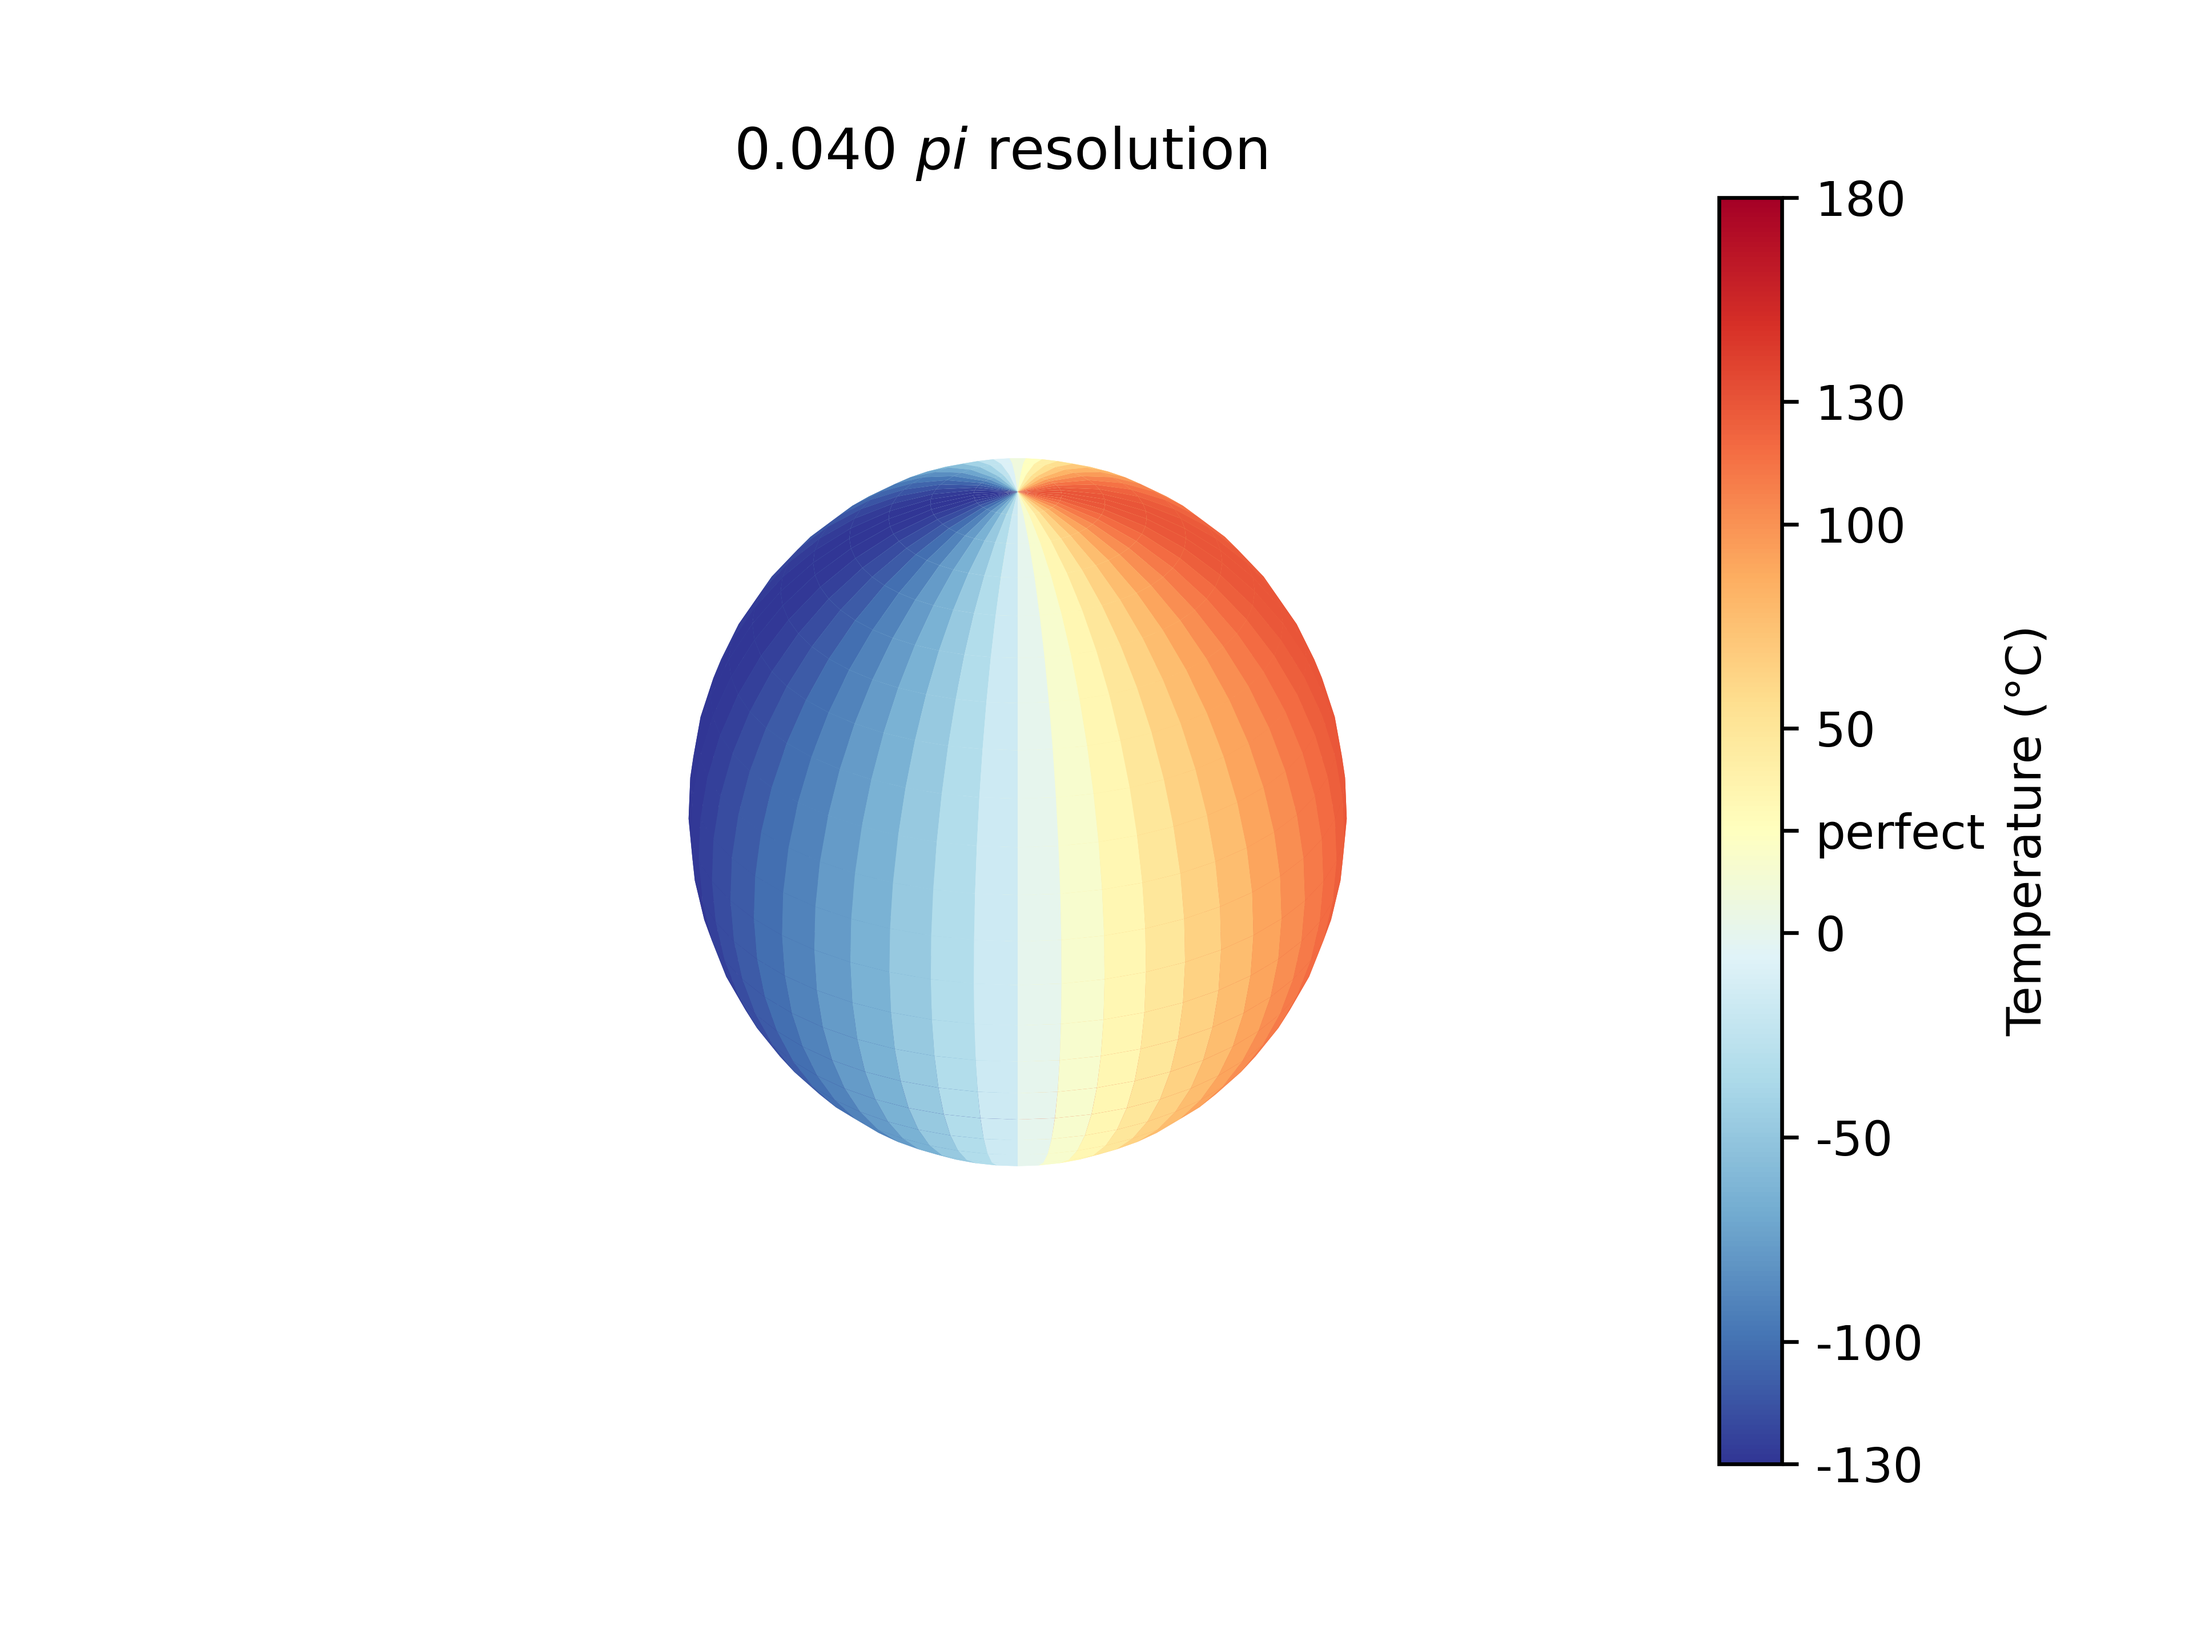
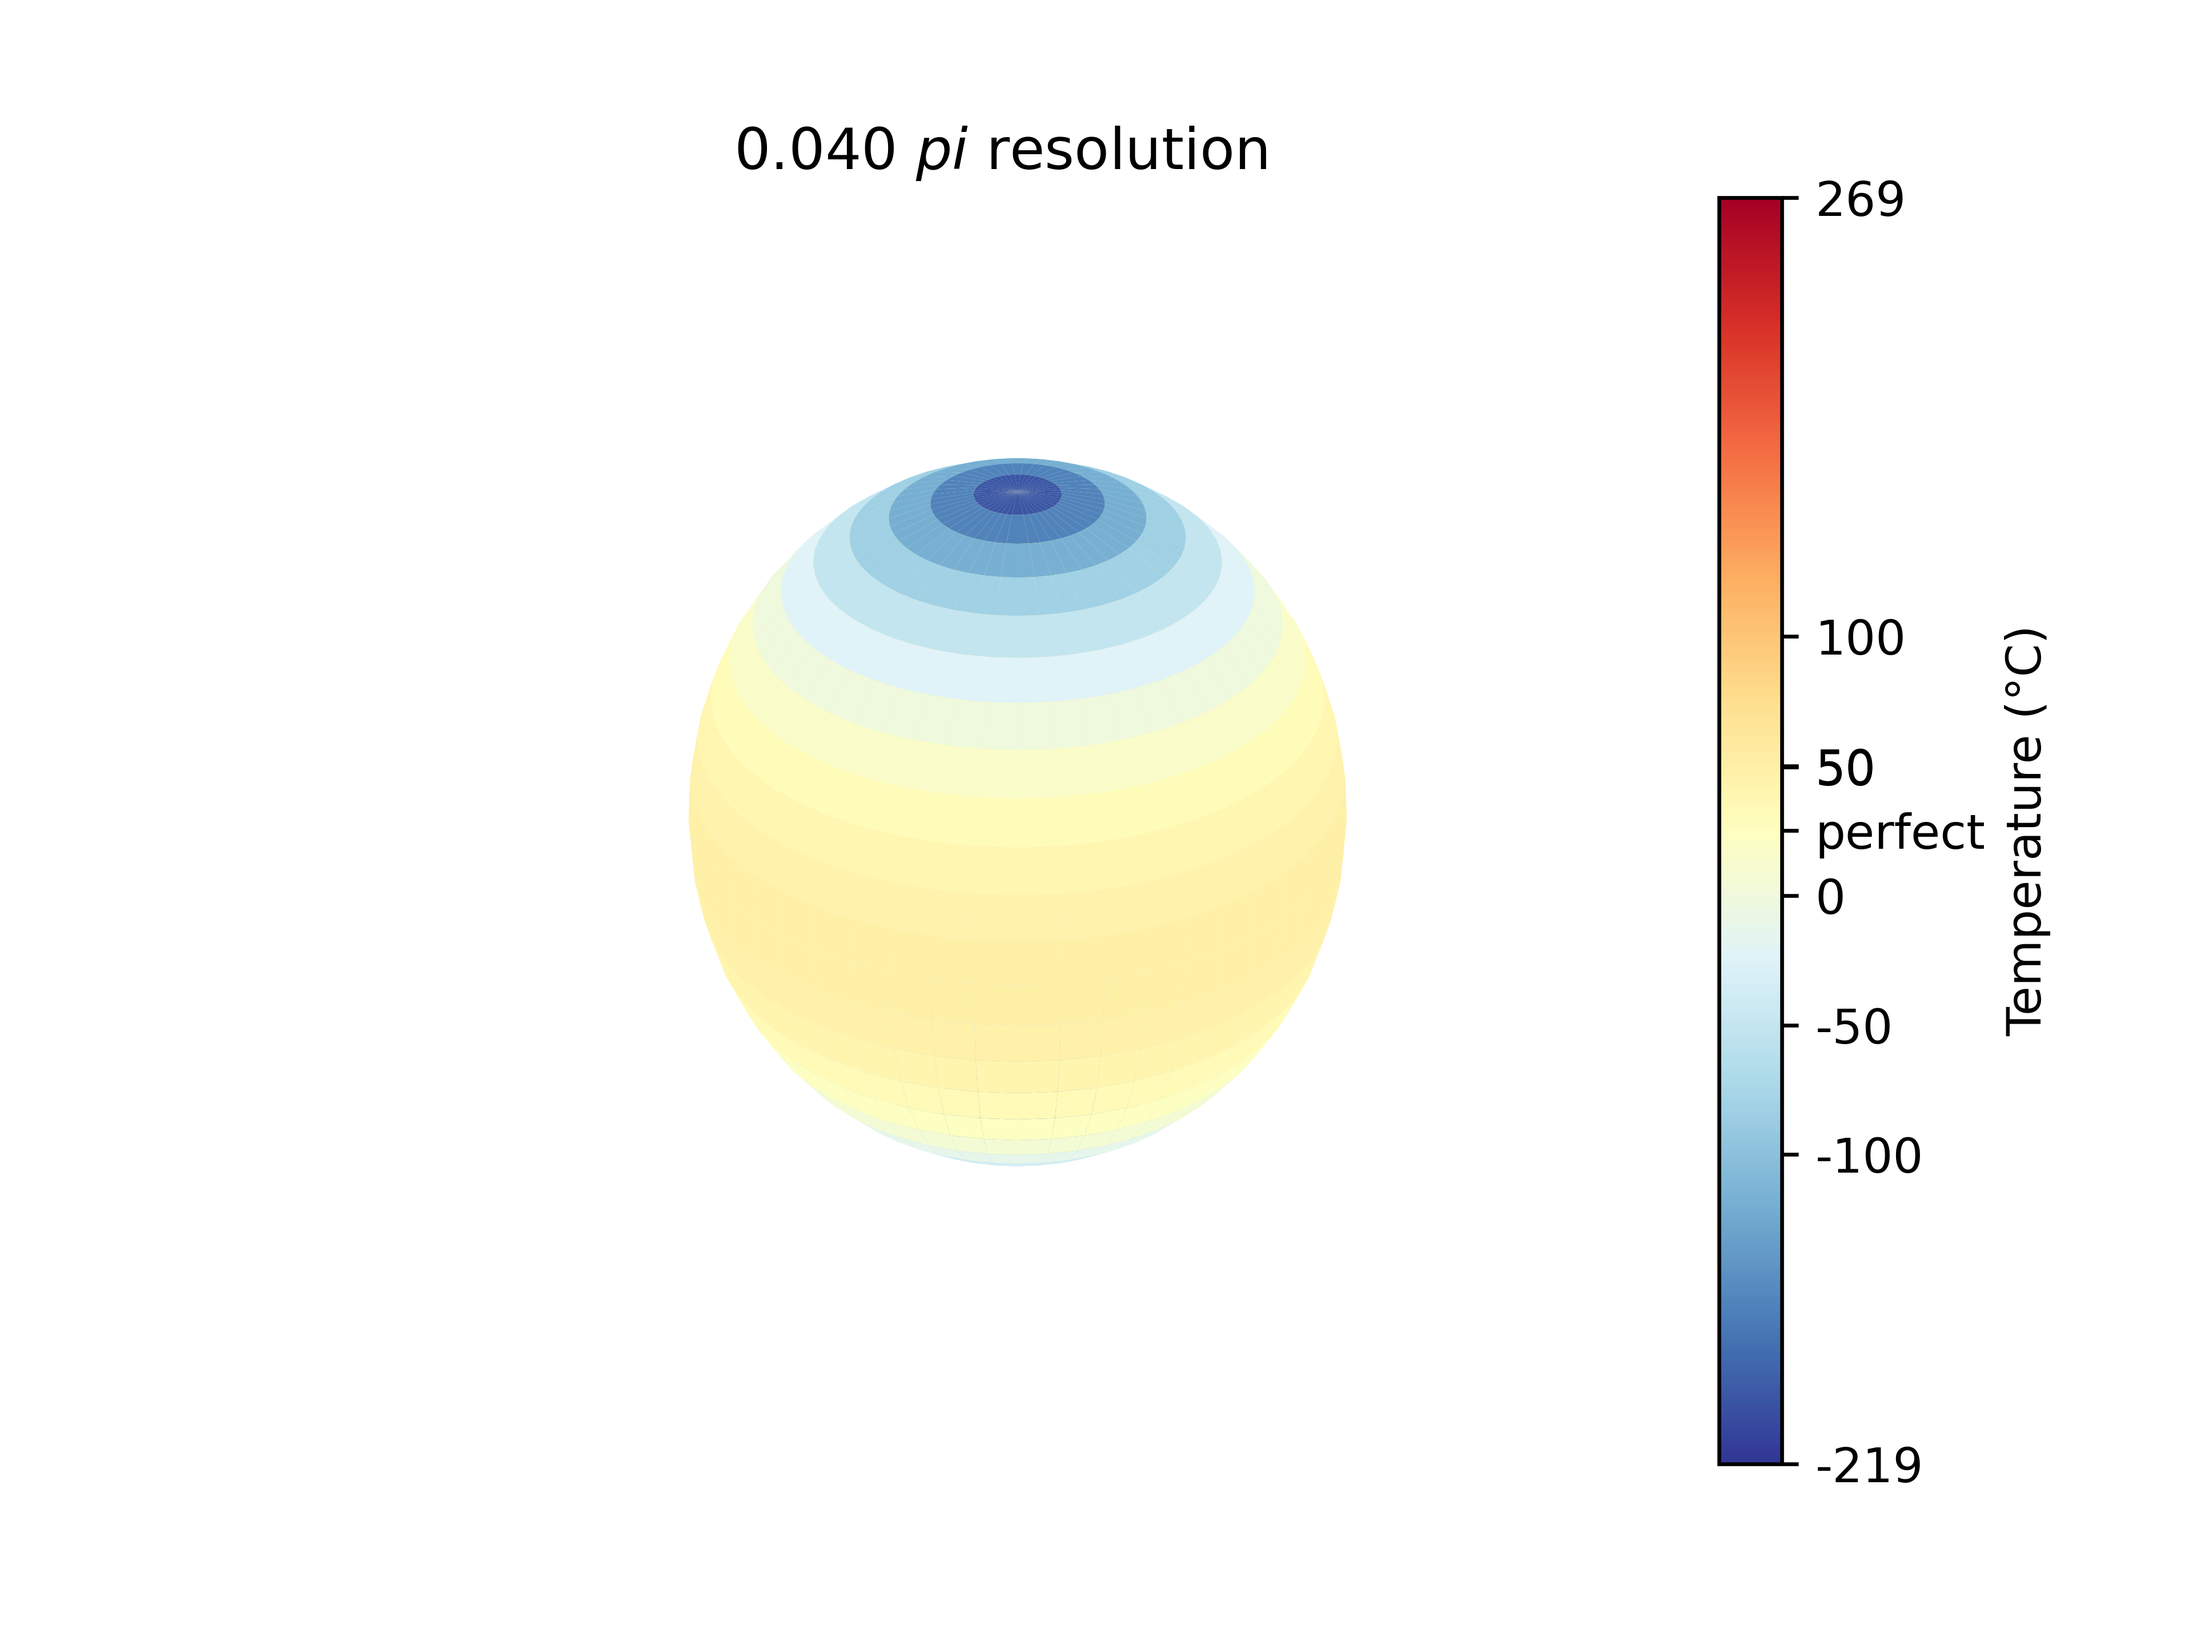
moon plotting still bad data

diff --git a/moon.py b/moon.py
@@ -1,5 +1,6 @@
 import numpy as np
 import matplotlib.pyplot as plt
+import matplotlib as mpl
 
 # Define Moon parameters
 R_moon = 1737e3  # Radius of the Moon (m)
@@ -15,8 +16,8 @@ thickness = 1  # Thickness of the model (m)
 N_lay = 10  # Number of layers
 N_lat = 25  # Latitude divisions
 N_lon = 50  # Longitude divisions
-N_days = 10  # Number of moon days
-N_time = N_days*240  # number of times steps
+N_days = 5  # Number of moon days
+N_time = N_days * 240  # number of times steps
 dt = 2.73 * 3600  # Time step (s) 1/240 moon days
 # dt = day_length / 200  # Time step (sec)
 # print(dt)
@@ -37,8 +38,10 @@ Th, Ph = np.meshgrid(theta, phi) # returns shape (len(phi), len(theta))
 # print(Ph)
 # Initialize temperature array
 T = 250 * np.ones_like(Th)  # Initial temperature (K)
-T = np.stack([T] * N_lay, axis=0)  # Stack layers
-
+# T = np.stack([T] * (N_lay-1), axis=0)  # Stack layers
+surf_T = 100 * np.cos(Th) * np.sin(Ph) + 250  # Surface temperature (K)
+T = np.stack((surf_T, T, T, T, T, T, T, T, T, T), axis=0)  # Add surface layer
+# print(T[-1])
 # Define solar flux (simplified)
 S_max = 1360.9  # Solar radiation at 1 AU (W/m^2)
 emissivity = 0.95
@@ -51,12 +54,14 @@ for t in range(N_time):
     print(t)
     # Approximate Laplacian using finite difference
     T_new = T.copy()
-    for l in range (0, N_lay-1):
+    for l in range (0, N_lay):
         for i in range(0, N_lat):
             for j in range(0, N_lon):
                 #1D laplacian
                 if l==0:
                     laplacian_T = (0 + T[1, i, j] - 2*T[l, i, j]) / dr**2
+                elif l == N_lay-1:
+                    laplacian_T = (T[l-1, i, j] + T[l, i, j] - 2*T[l, i, j]) / dr**2
                 else:
                     laplacian_T = (T[l+1, i, j] + T[l-1, i-1, j] - 2*T[l, i, j]) / dr**2
                 # grad_T = np.sqrt((T[l, i+1, j] - T[l, i-1, j])**2 + (T[l, i, j+1] - T[l, i, j-1])**2) / (2 * dx)
@@ -70,9 +75,10 @@ for t in range(N_time):
                     # print(S)
                     # print(Ph[i, j])
                         T_new[l, i, j] += (S * dt) / (rho * Cp * thickness)  # Heat absorbed
-
+                        print(S * dt / (rho * Cp * thickness))
                     # Radiative cooling (Stefan-Boltzmann law)
                     T_new[l, i, j] -= emissivity * sigma * T[l, i, j]**4 * dt / (rho * Cp * thickness)
+                    print(emissivity * sigma * T[l, i, j]**4 * dt / (rho * Cp * thickness))
                 T_new[l, i, j] = max(min(T_new[l, i, j], 500), -100)  # Keep within realistic lunar temperature limits
     
     # print(T_new[1, 1])
@@ -87,13 +93,71 @@ for t in range(N_time):
     T = T_new.copy()
 # print(T)
 # Plot results
-plt.imshow(T[0], cmap='hot', aspect='auto')
-plt.colorbar(label='Temperature (K)')
-plt.title("Approximate Lunar Surface Temperature Distribution")
-plt.xlabel("Longitude")
-plt.ylabel("Latitude")
-plt.savefig("moon_temperature.png", dpi=300)
+temps = T[0, :, :] - 273  # Surface temperature (^oC)
+shape = temps.shape
+min_temp = temps.min()
+max_temp = temps.max()
+
+# Use below to make sphere same shape as temps, 
+# Assuming axis 0 is phi (0 -> pi)
+# axis 1 is theta (0 -> 2pi)
+# If not, swap 0 & 1 below and the creation of x & y
+
+# # sphere
+phi = np.linspace(0, np.pi, shape[0])
+theta = np.linspace(0, 2*np.pi, shape[1])
+T, P = np.meshgrid(theta, phi) # returns shape (len(phi), len(theta))
+r = 1
+
+# #cartesian coordinates
+x = r * np.sin(P) * np.cos(T)
+y = r * np.sin(P) * np.sin(T)
+z = r * np.cos(P)
+
+colour_map = mpl.colormaps['RdYlBu_r'] # Red to yellow to blue colour map
+
+perf_temp = 25 # chosen temperature for the cheese
+
+# Sets colour map to centre on perf_temp
+if np.abs(perf_temp-max_temp) >= np.abs(perf_temp-min_temp):
+    norm = mpl.colors.Normalize(vmin=(2*perf_temp)-max_temp, vmax=max_temp)
+elif min_temp < 0:
+    norm = mpl.colors.Normalize(vmin=min_temp, vmax=(2*perf_temp)-min_temp)
+
+colours = colour_map(norm(temps))
+
+
+# Plotting moon
+fig = plt.figure()
+ax = fig.add_subplot(111, projection='3d')
+surface = ax.plot_surface(x, y, z, norm=norm, edgecolor=None, linewidth=0.5, cmap=colour_map, facecolors=colours)
+ax.set_axis_off()
+# Adding colourbar
+cbar = plt.colorbar(mpl.cm.ScalarMappable(norm=norm, cmap=colour_map), ax=ax)
+cbar.set_label('Temperature (°C)')
+if np.abs(perf_temp-max_temp) >= np.abs(perf_temp-min_temp):  # Changes colourbar axis to match above
+    cbar.set_ticks([(2*perf_temp)-max_temp, min_temp, -100, -50, 0, perf_temp, 50, 100, max_temp], labels=['{:.0f}'.format((2*perf_temp)-max_temp), '{:.0f}'.format(min_temp), '-100', '-50', '0', 'perfect', '50', '100', '{:.0f}'.format(max_temp)])
+elif min_temp < 0:
+    cbar.set_ticks([min_temp, -100, -50, 0, perf_temp, 50, 100, max_temp, (2*perf_temp)-min_temp], labels=['{:.0f}'.format(min_temp), '-100', '-50', '0', 'perfect', '50', '100', '{:.0f}'.format(max_temp), '{:.0f}'.format((2*perf_temp)-min_temp)])
+# In set_ticks 
+# First list is value positions, second is labels
+# Indices have to match
+
+
+ax.set_title('{:.3f} $pi$ resolution'.format(1 / shape[0]))
+ax.set_box_aspect((1, 1, 1)) # to be regular sphere
+ax.view_init(30, 0, 0) # Change viewing angle https://matplotlib.org/stable/api/_as_gen/mpl_toolkits.mplot3d.axes3d.Axes3D.view_init.html#mpl_toolkits.mplot3d.axes3d.Axes3D.view_init
+plt.savefig('moon.png', dpi=600, transparent=True)
 plt.show()
-plt.plot(T[0, 12, :])
-plt.savefig("moon_temperature_profile.png", dpi=300)
+
+eq_index = shape[0] // 2 # Find equator index of temps
+
+# Plot temps across equator
+fig1 = plt.figure()
+ax1 = fig1.add_subplot(111)
+ax1.plot(theta/np.pi, temps[eq_index], c='k')
+ax1.spines[["left", "bottom"]].set_position(("data", 0)) # Puts x axis at y=0, can remove
+ax1.spines[["top", "right"]].set_visible(False)
+plt.savefig('moon_eq.png', dpi=600, transparent=True)
 plt.show()
+
